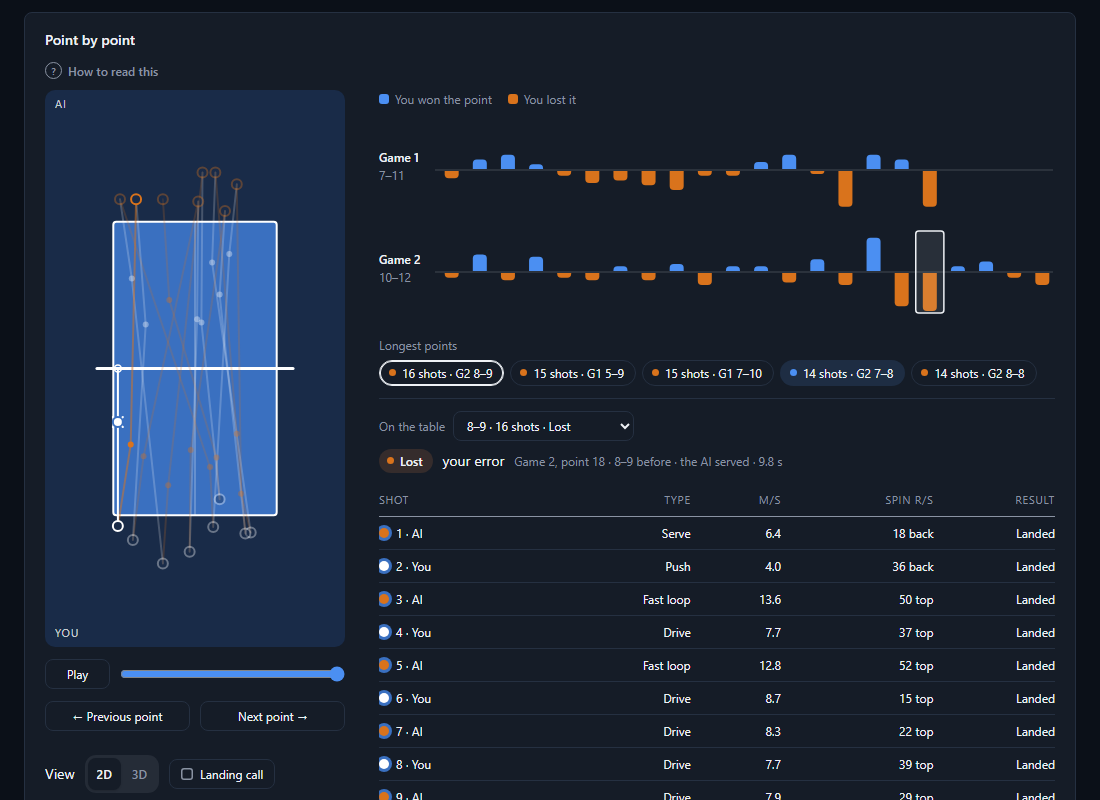
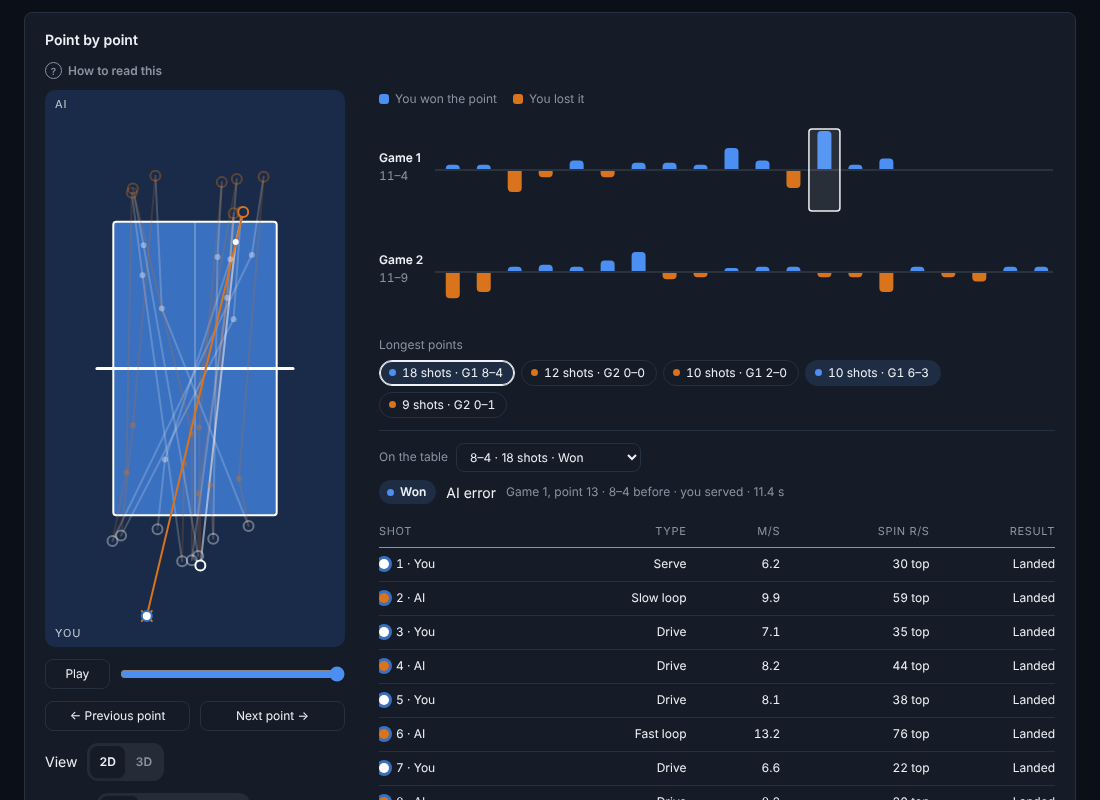
Refresh README screenshots from the new demo
All eleven README pictures were taken from an older demo (the overview
still showed 9 to 6). They are now taken from the live demo at the same
size and framing. Alt text for the point by point, 3D replay and serves
pictures is updated to match what they now show.

diff --git a/README.md b/README.md
@@ -129,13 +129,13 @@ Written from the logs after every session: what you won, what changed, and each 
 
 ### Point by point
 
-![A table seen from above with the paths of a 16-shot rally, bars for every point of two games, and a shot list with type, speed and spin.](pages/img/replay.png)
+![A table seen from above with the paths of an 18-shot rally, bars for every point of two games, the longest points as chips, and a shot list with type, speed and spin.](pages/img/replay.png)
 
 Every point of a match as a bar. Click one to play it back from the ball contacts, with the type, speed and spin of each shot.
 
 ### 3D replay
 
-![The table drawn in 3D with the ball in flight over the net, its path so far, and a ball in the corner turning with the spin of the shot.](pages/img/replay-3d.png)
+![The same rally drawn in 3D over the table, with a ball in the corner turning with the spin of the shot.](pages/img/replay-3d.png)
 
 The same point in 3D, with the spin of the ball shown in the corner. "Deciding shot" replays the last shot in slow motion with the camera following the ball.
 
@@ -188,7 +188,7 @@ Rolling win rates with the range chance allows, so a lucky week does not look li
 
 ### Serves and returns
 
-![Points won by the side the serve comes to and by the length of the return, then a bar for each kind of serve showing how its points ended.](pages/img/serves.png)
+![Points won by the side the serve comes to, the serves you miss and the hardest serve to face, then a bar for each kind of serve showing how its points ended.](pages/img/serves.png)
 
 Where points on each serve end: by the side, spin and depth of the serve, for the AI's serves and your own. Below that, the first shots of a point as one pattern (your serve, the ball that came back and your third ball; or the AI's serve, your return, its next ball and your fourth), with the points you win from each pattern against your average, and its points one click from the replay.
 
